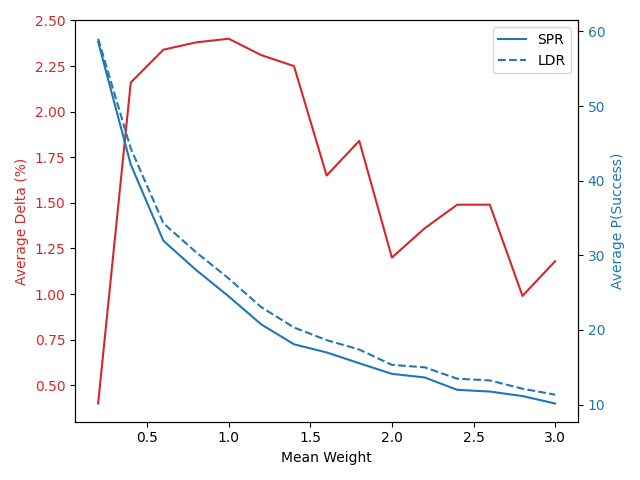
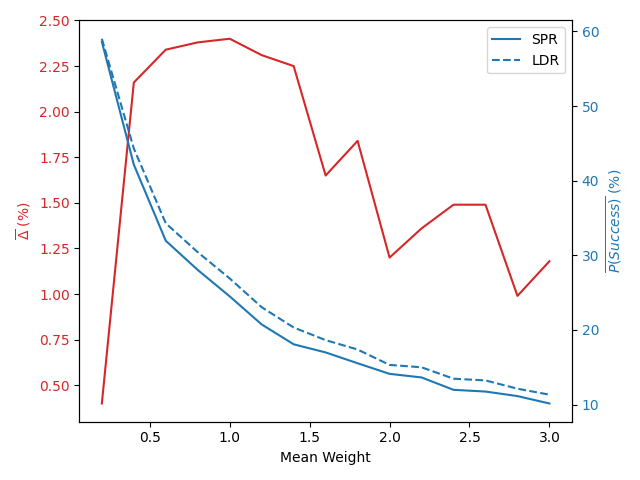
Added APL simulation for whole LN

diff --git a/simulation/simulation_results/5/figure5.py b/simulation/simulation_results/5/figure5.py
@@ -1,0 +1,40 @@
+import matplotlib.pyplot as plt
+
+nNodes = []
+
+# Populate mean weight (x values)
+for i in range(0, 9):
+    nNodes.append(100 + (i*50))
+
+# Populate average delta (y values)
+ldr_success = [37.85, 35.35, 28.0, 31.55, 23.5, 25.75, 24.15, 24.3, 24.45]
+spr_success = [37.25, 34.2, 26.1, 30.05, 21.1, 22.55, 21.05, 19.7, 19.95]
+spr_apl = [2.33, 2.83, 3.23, 3.19, 3.61, 3.8, 4.15, 4.15, 4.25]
+ldr_apl = [2.38, 2.96, 3.52, 3.41, 4.02, 4.49, 4.73, 4.89, 5.09]
+average_delta = [ldr_success[i]-spr_success[i] for i in range(len(ldr_success))]
+
+fig, (ax1, ax3) = plt.subplots(2)
+
+# Set the first axis (first subplot) with tthe deltas
+ax1.set_xlabel('Number of nodes')
+ax1.set_ylabel(r'$\overline{\Delta}$' + ' (%)', color='tab:red')
+ax1.plot(nNodes, average_delta, color='tab:red')
+ax1.tick_params(axis='y', labelcolor='tab:red')
+ax2 = ax1.twinx()  # instantiate a second axes that shares the same x-axis
+
+# Set the second axis (first subplot) with P(Success) for both solutions (shares x_axis with ax1)
+ax2.set_ylabel(r'$\overline{P(Success)}$' + ' (%)', color='tab:blue')  # we already handled the x-label with ax1
+ax2.plot(nNodes, spr_success, color='tab:blue', label="SPR")
+ax2.plot(nNodes, ldr_success, linestyle='dashed', color='tab:blue', label="LDR")
+ax2.tick_params(axis='y', labelcolor='tab:blue')
+ax2.legend(bbox_to_anchor=(0,1.02,1,0.2), loc="lower left", borderaxespad=0, ncol=3)
+
+# Set the third axis (second subplot) with the the APL for LDR and SPR
+ax3.set_xlabel('Number of nodes')
+ax3.set_ylabel('APL')
+ax3.plot(nNodes, spr_apl, color='tab:blue', label="SPR")
+ax3.plot(nNodes, ldr_apl, linestyle='dashed', color='tab:blue', label="LDR")
+ax3.legend(bbox_to_anchor=(0,1.02,1,0.2), loc="lower left", borderaxespad=0, ncol=3)
+
+fig.tight_layout()  # otherwise the right y-label is slightly clipped
+plt.show()

diff --git a/simulation/sim_apl.py b/simulation/sim_apl.py
@@ -1,0 +1,56 @@
+import networkx as nx
+import matplotlib.pyplot as plt
+import distributedrouting
+import shortestpathrouting
+import statistics
+import payment as pmt
+import random
+
+nPaths = 10000
+aplAcumm = 0
+
+# Open adjencency list file and build the undirected graph
+f = open("adjList.txt", 'rb')
+G = nx.read_multiline_adjlist(f)
+f.close()
+
+print("Number of nodes: " + str(G.number_of_nodes()))
+print("Number of edges: " + str(G.number_of_edges()))
+
+# Read alias file and create a pub_key -> alias dic
+aliasDic = {}
+f = open("nodeAlias.txt", 'r')
+
+lines = f.read().splitlines()
+
+for line in lines:
+    pub_key = line[:66]
+    alias = line[67:]
+    aliasDic[pub_key] = alias
+
+nodes = list(G.nodes)
+
+# Find source and destination nodes
+for i in range(0, nPaths):
+    # Choose a random source
+    source = nodes[random.randint(0, len(nodes) - 1)]
+    #Choose a random destination
+    destination = nodes[random.randint(0, len(nodes) - 1)]
+
+    #Skip if they are the same
+    if source == destination:
+        i-=1
+        continue
+
+    # Find shortest path between source and destination
+    try:
+        shortest_path = nx.shortest_path(G, source, destination)
+    #Skip if there's an error
+    except:
+        i-=1
+        continue
+
+    #Add the size of the path to the accumulation variable
+    aplAcumm += len(shortest_path)
+
+print("APL = " + str(aplAcumm/nPaths))

diff --git a/simulation/simulation_results/4/figure4.py b/simulation/simulation_results/4/figure4.py
@@ -14,12 +14,12 @@ ldr_success = [average_delta[i]+spr_success[i] for i in range(len(average_delta)
 fig, ax1 = plt.subplots()
 
 ax1.set_xlabel('Mean Weight')
-ax1.set_ylabel('Average Delta (%)', color='tab:red')
+ax1.set_ylabel(r'$\overline{\Delta}$' + ' (%)', color='tab:red')
 ax1.plot(mean_weight, average_delta, color='tab:red')
 ax1.tick_params(axis='y', labelcolor='tab:red')
 ax2 = ax1.twinx()  # instantiate a second axes that shares the same x-axis
 
-ax2.set_ylabel('Average P(Success) (%)', color='tab:blue')  # we already handled the x-label with ax1
+ax2.set_ylabel(r'$\overline{P(Success)}$' + ' (%)', color='tab:blue')  # we already handled the x-label with ax1
 ax2.plot(mean_weight, spr_success, color='tab:blue', label="SPR")
 ax2.plot(mean_weight, ldr_success, linestyle='dashed', color='tab:blue', label="LDR")
 ax2.tick_params(axis='y', labelcolor='tab:blue')

diff --git a/simulation/sim.py b/simulation/sim.py
@@ -15,7 +15,7 @@ payments_mu_weight = 1
 # Payemnts gaussian standard deviation
 payments_sigma_weight = payments_mu_weight/2
 # Number of nodes to have before stopping removing nodes
-nNodes = 650
+nNodes = 600
 # Number of routing gossip messages to be sent in-between payments
 nRoutingGossip = 10
 
